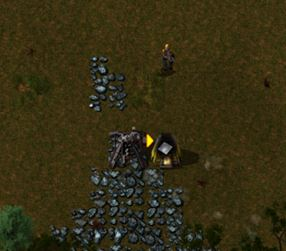
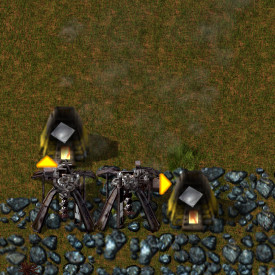
Better images, more consistent images (like legit he had 2 images both with different zoom, resolution and background terrain... Fixed the text to be less dumb

diff --git a/04-collecting-resources.html b/04-collecting-resources.html
@@ -4,19 +4,23 @@ title: Collecting resources
 ---
 
 
-<p>Now it is time to start gathering resources and begin the early stages of building your factory! You will need Iron, Stone, Coal, and Copper. However, you will not need very much Copper for a little while. Iron is the main resource you will need right now, and for the near future. In fact you can never really have too much of it, especially in the early game when you need it for nearly everything you will have to make.</p>
+<p>Now it is time to start gathering resources, and to begin the early stages of building your factory. You will need Iron, Stone, Coal, and Copper (You won't need much copper right away). Iron is the main resource you will need, you can never really have too much of it, especially in the early game where you will need it to produce nearly everything.</p>
 
-<p>Alright, it is time to actually start mining those much needed resources! This early stage of the game commonly known as the Burner Stage is actually pretty simple and won't take too much explanation. You will use the Burner Miners to actually mine the resources, and then use Stone Furnaces to smelt the Iron and Copper into plates, and the Stone into bricks. The Burner Miners are pretty simple machines that just require fuel (coal or wood at this stage) to run. They don't mine the resources particularly fast, but they do it automatically without you having to do it yourself which is the important part!</p>
+<p>This early stage of the game is commonly known as the Burner Stage, and is pretty simple and isnt' too difficult to learn. You will use the Burner Miners to mine the resources, and then Stone Furnaces to smelt the Iron/Copper ore into plates, and the Stone into bricks. The Burner Miners are simple machines that require fuel (coal or wood at this stage) to run. The mine the resources automatically with no additional input from you, as long as they have an output and fuel.</p>
 
 <div class="cont-left"><img src="img/3.jpg" width="275" /></div>
 
-<p>The ore can be directly inserted into a furnace by just facing the miner towards it and butting them right up against each other. For the Iron and Copper just put some burner miners down on top of the ore patches, stick some fuel in them (either coal or wood) and then put a furnace in front of the miner and throw some fuel in it, and your off!</p>
+<p>The ore is outputted from the Mining drill in the direction the arrow shows (in alt view), and will drop onto the ground tile, onto a transport belt or into another entity if it is at that position. You can see that the ore can be inserted directly into a furnace by just facing the miner towards it and placing the Stone furnace right against the miner. For and easy, Iron and Copper smelting, put some burner miners down on top of the ore patches. Fill these with fuel and they will begin mining the ore. You can then put a furnace in front of the miner, put some fuel in it, and the ore will be smelted into plate.</p>
 
-<p>For the Stone, it is probably best to just have it dump directly into a chest since you won't need stone bricks right away. Oh, don't forget, you can tell which way a miner will output by having the advanced info turned on (ALT key). The little yellow arrow will show where it spits out the ore.</p>
+<p>Stone is also needed early in the game, but stone bricks are not. So for the stone patches it's reccomended to have the miner deposit directly into a chest intially.</p>
 
-<p>The coal is a little different. You obviously don't need to smelt it or refine it down any further than it already is, so you can just mine it and use the Coal Ore. There are two methods for mining and collecting it. Either do the same as you did with the stone and just have it inserted directly into a chest, or use this neat little trick illustrated in the picture below:</p>
+<div class="cont-right"><img src="img/stone-mining-chest.jpg" width="180" /></div>
 
-<div class="cont-left"><img src="img/4.jpg" width="275" height="235" /></div>
+<p>With coal, it isn't needed to smelt it or refine it any further than it already is, so you just mine it and use the Coal directly. There are two methods for mining and collecting it. Either do the same as you did with the stone and just have it inserted directly into a chest, or use a  little trick illustrated in the picture below:</p>
 
-<p>Notice how the miners are all facing each other in a sort of clockwise circle formation? Pretty much what this is doing is allowing the miners to spit their coal into the next one as if it had mined it itself. This works really well because it allows all the miners to constantly stay fueled and also collect coal until their fuel storage slot gets full. Then you can just walk by and grab from each one whenever you need coal. This can also be done with only two miners, just face them towards each other. 
-That about covers everything for this very early stage of the game. You are really just trying to get enough resources to get some power up and running so you can really start automating everything. Establishing power will be covered shortly.</p>
+<div class="cont-left"><img src="img/4.jpg" width="275" height="275" /></div>
+
+<p>Notice how the miners are all facing each other with their outputs. This allows the miners to output their coal into the next one, and keep it running. This works well because it gives the miners a constant supply of fuel, and allows them to work indefinitely. You can then take some of the coal from the fuel slot, for use in the other burner machinery.</P>
+
+<p>
+This covers the basics for this very early stage of the game. The main goal at this time is to secure enough iron plate to expand your automation in the coming stages of the game.</p>
